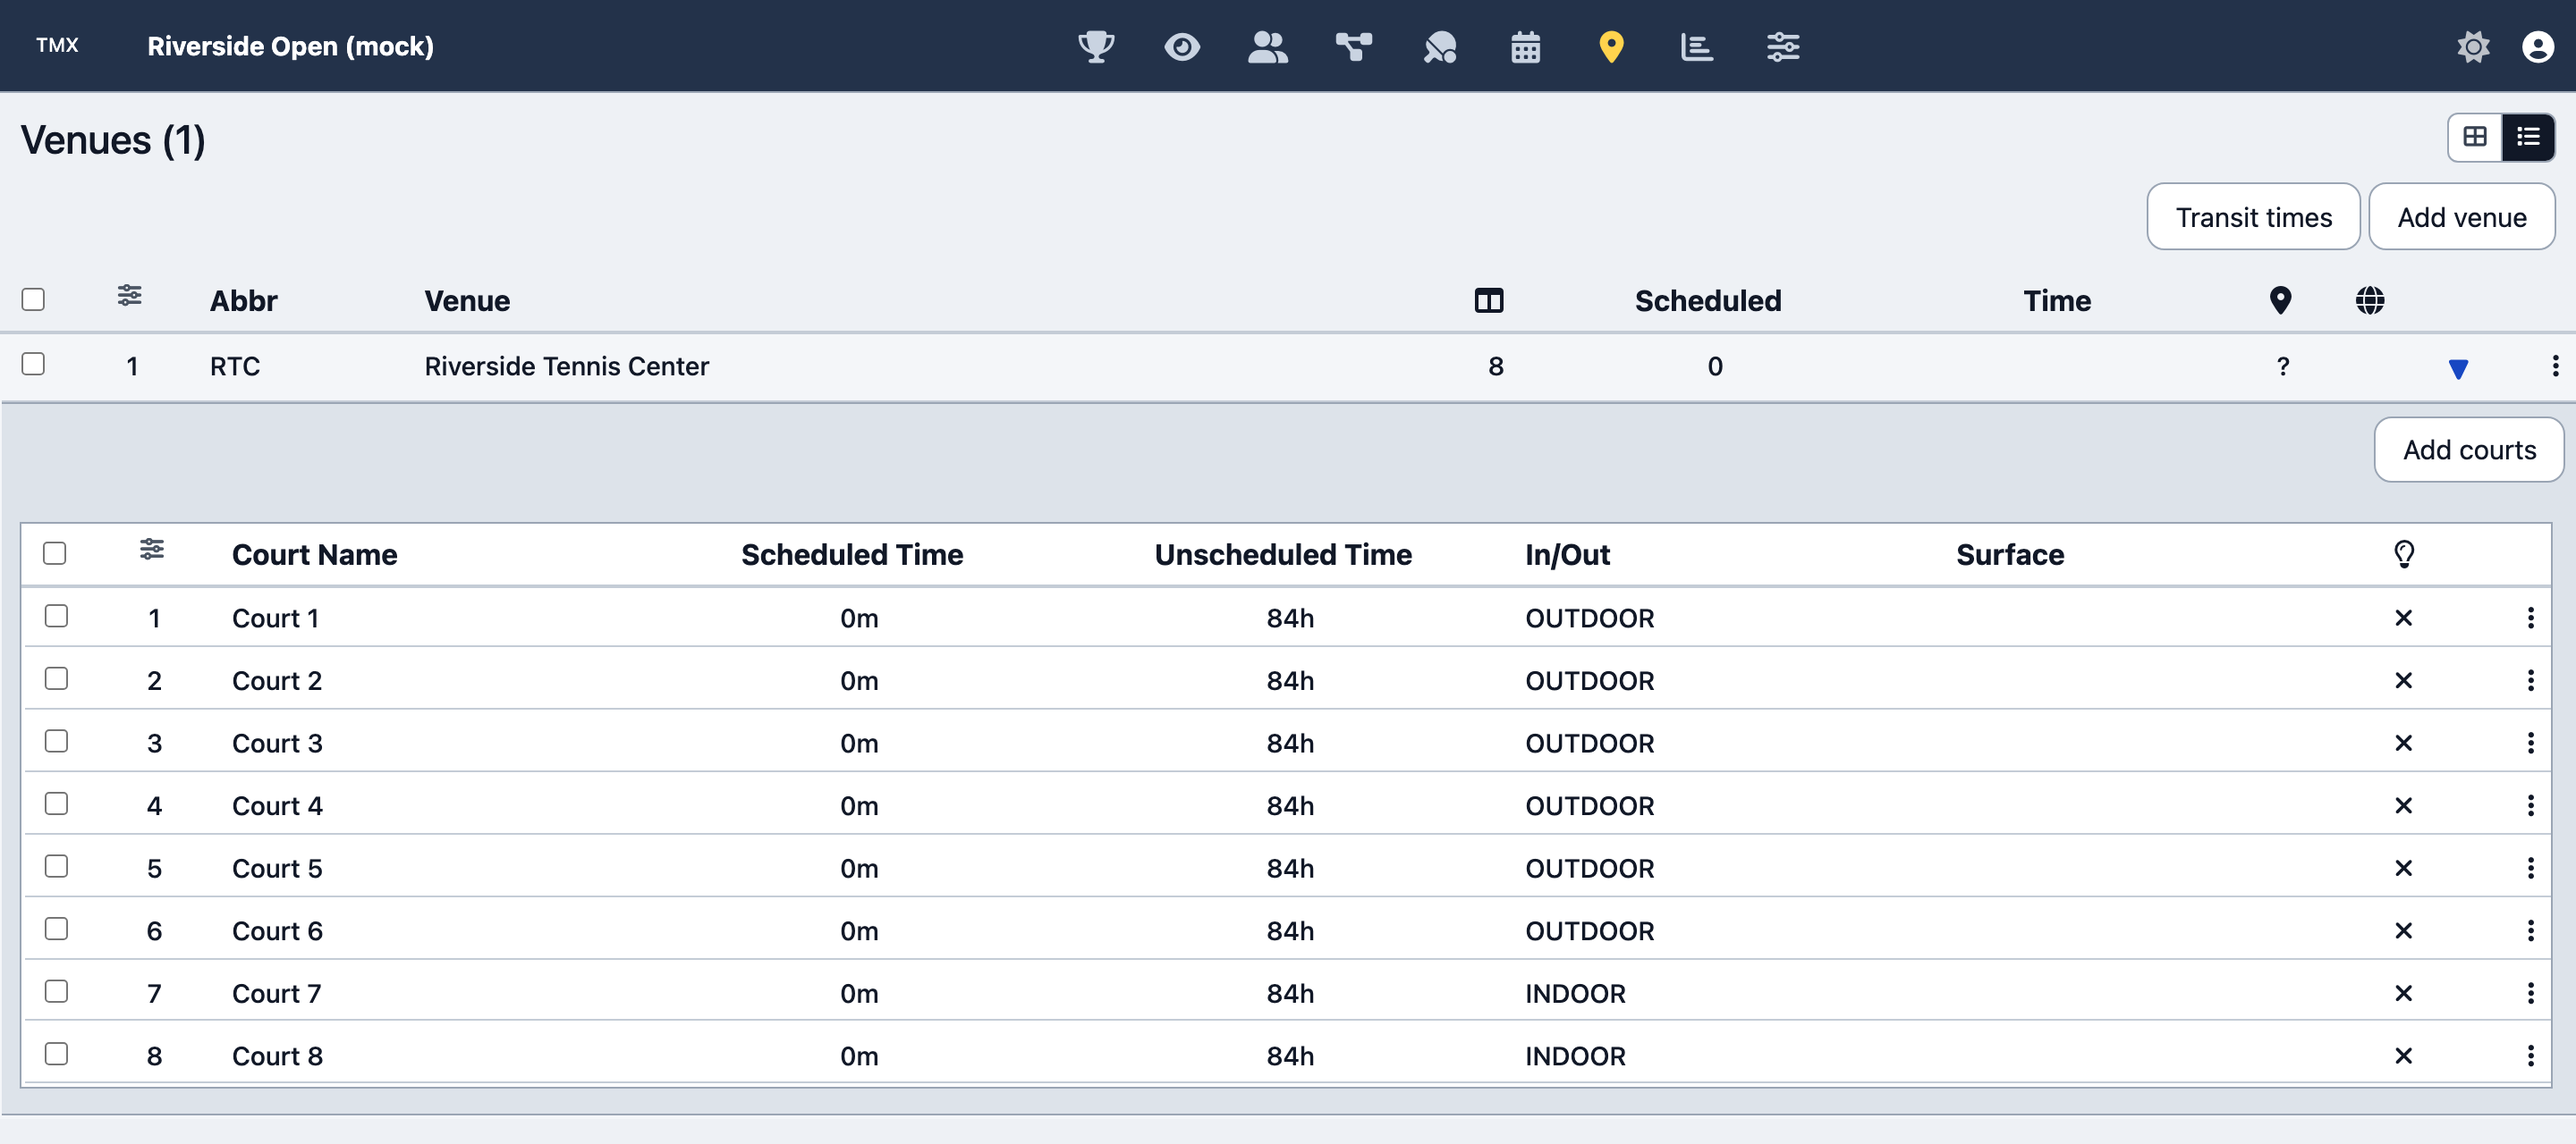
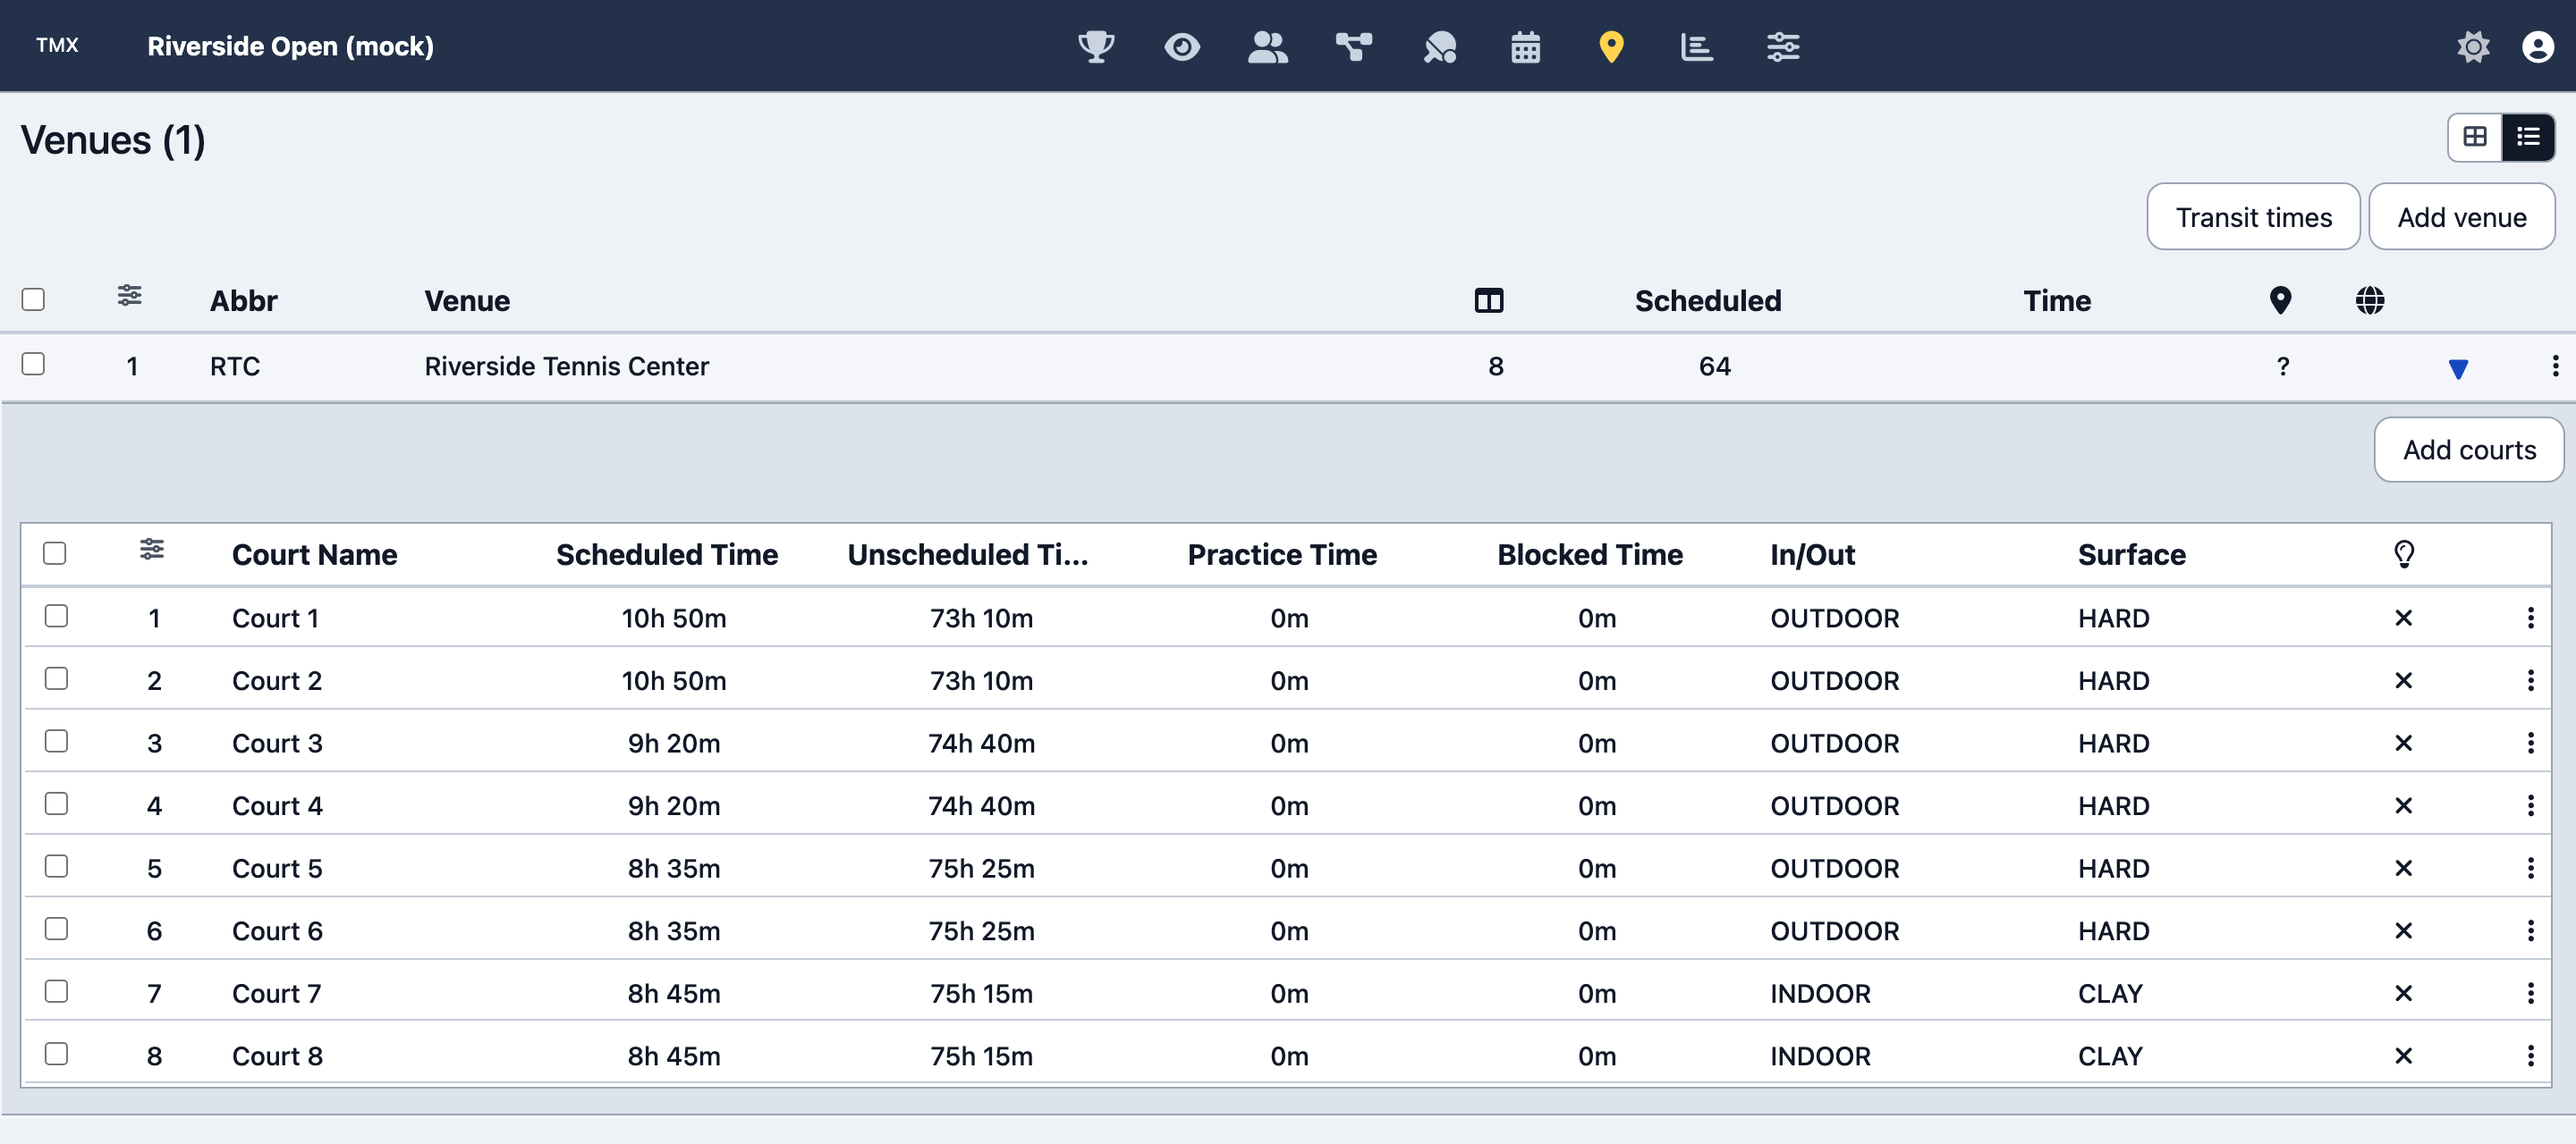
docs(tmx): recapture the venues table with the scheduled count, surfaces and court time columns
The screenshot showed the venue's Scheduled count as 0 and an empty court
Surface column, both fixed in TMX (#2040, #2041), and predated the court time
columns (#2055). Recaptured from TMX dev with the same offline mock tournament;
the caption now says what the court time columns count.

diff --git a/documentation/docs/tmx/venues-scheduling.md b/documentation/docs/tmx/venues-scheduling.md
@@ -32,7 +32,7 @@ Venue and scheduling management in TMX includes:
 
 ![TMX Venues tab with one venue expanded to show its eight courts](/img/tmx/venues-table.png)
 
-_The Venues tab with a venue row expanded to list its courts. **Add venue** and **Add courts** open the corresponding drawers._
+_The Venues tab with a venue row expanded to list its courts. **Add venue** and **Add courts** open the corresponding drawers. Each court shows its scheduled time (the matchUps placed on its grid, at their average length), its unscheduled time, and the time held for practice or blocked for maintenance, from the court's timed bookings._
 
 ```js
 // Add venue
